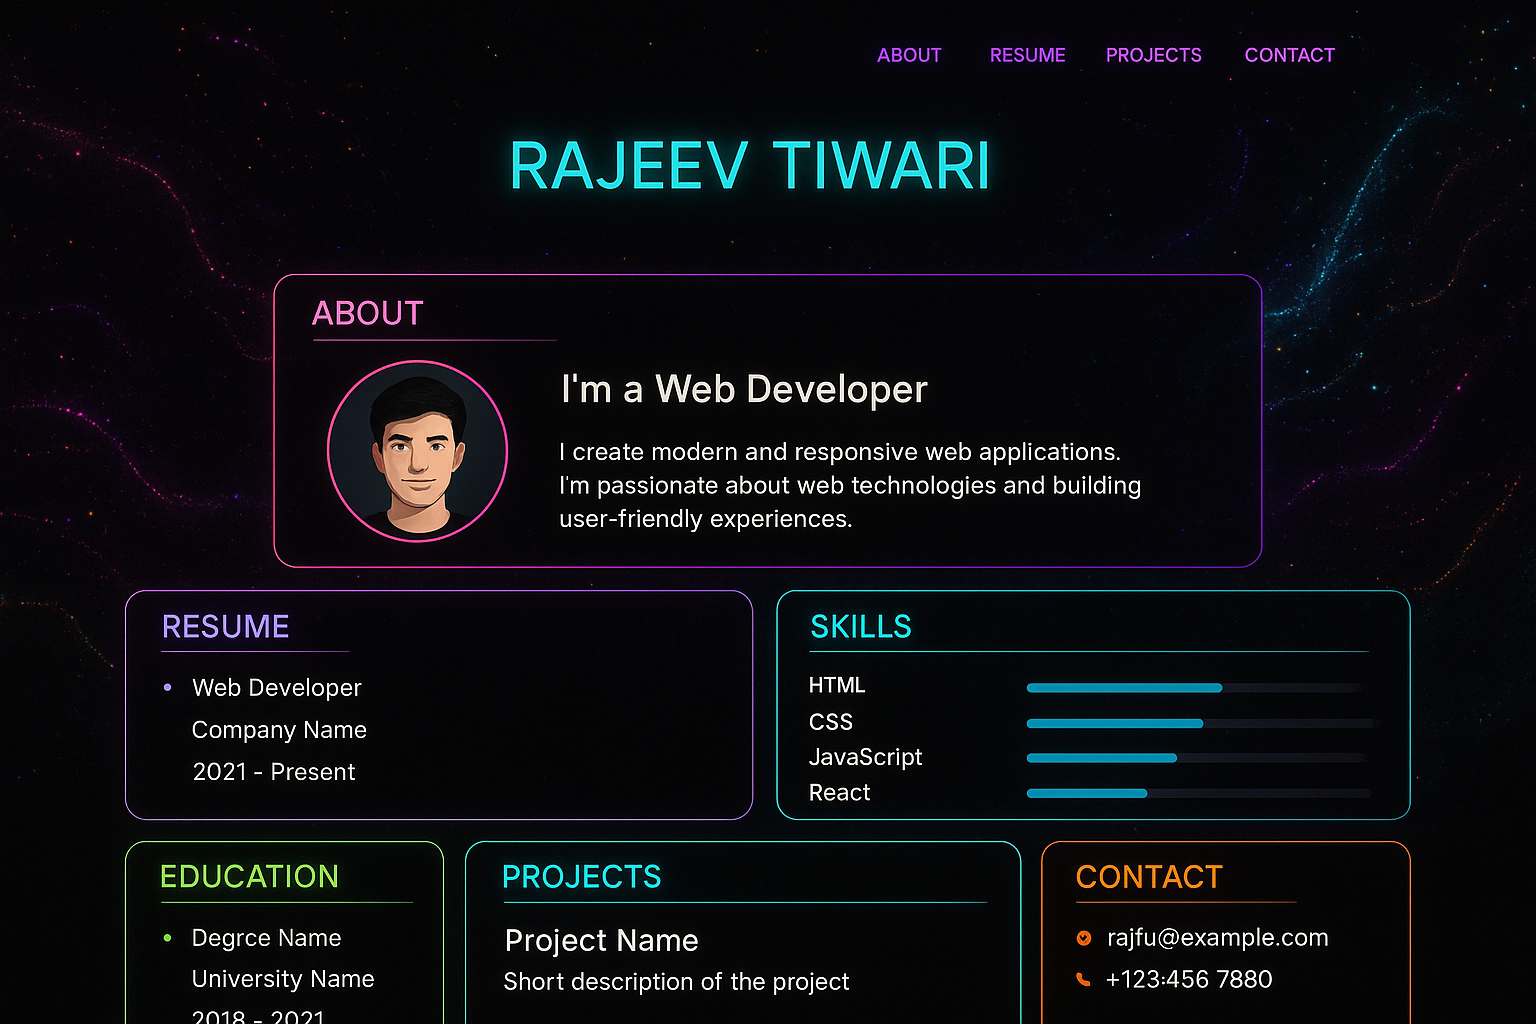
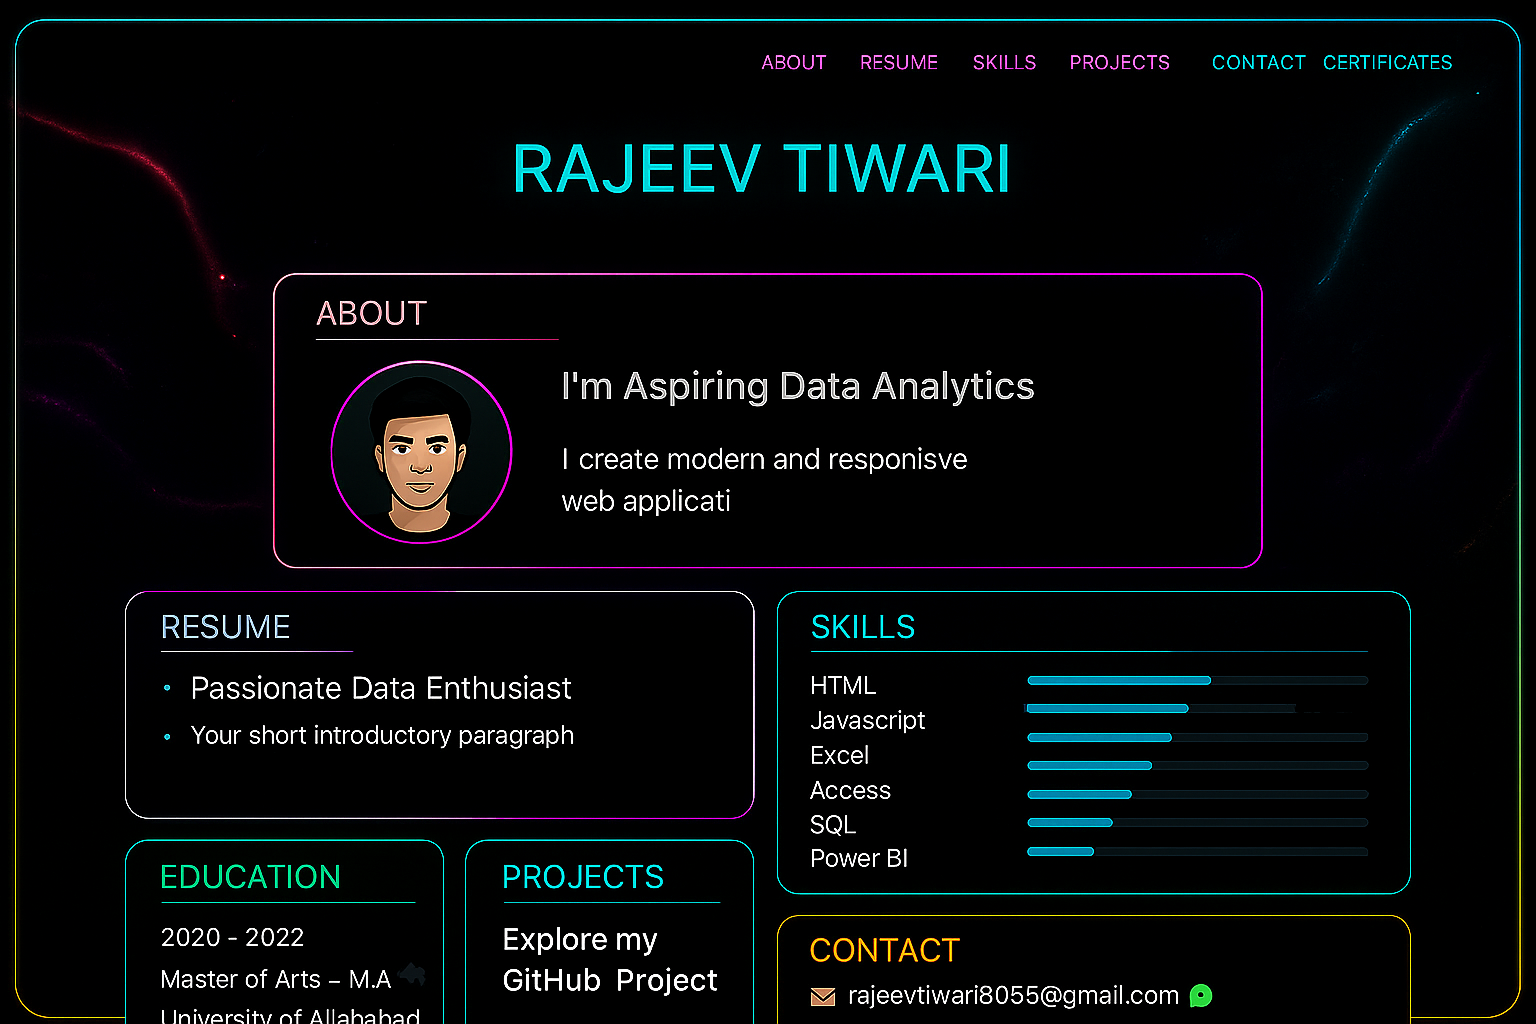
add new images

diff --git a/README.md b/README.md
@@ -205,5 +205,5 @@ Thanks for exploring! I look forward to your feedback, support, and future colla
 ---
 
 ## 🖼 Website Preview
-
-![Website Screenshot 1](Website.png)
+![My Website Preview](My%20Website.png)
+![Alternate Website Preview](Website1%20.png)
